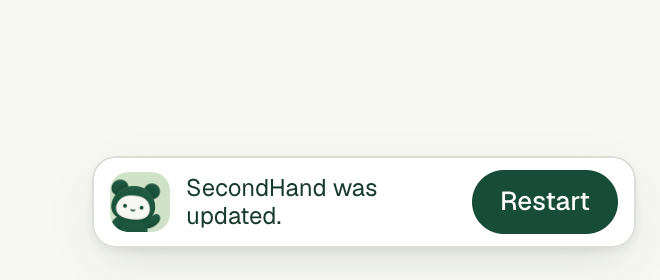
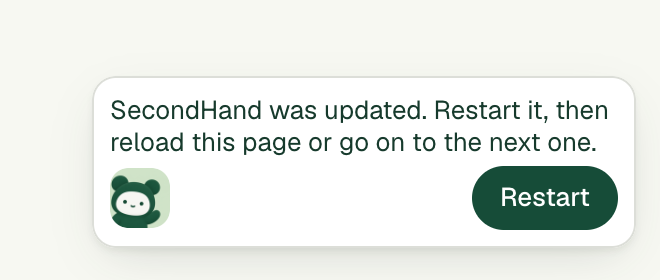
fix: let the update notice say what Restart does and what follows
The card's notice said only "SecondHand was updated." beside Restart, and
after the restart "Reload this page... That clears what you typed", with
no way out that kept the typing. The card now asks its outdated worker
once for a frame with room (in the oldest form of that request), and
with that room says "SecondHand was updated. Restart it, then reload this
page or go on to the next one." above the button, and afterwards
"SecondHand is back on the next page. To use it here, reload this page
(the round arrow by the address bar); that clears what you typed." In a
frame too small for the whole notice, the short form says what to do. All
six languages.

diff --git a/extension/strings.js b/extension/strings.js
@@ -44,6 +44,7 @@
     'widget.offerTitle': 'Show this page’s questions in English in SecondHand’s side panel',
     'widget.languageCheckFailed': 'SecondHand couldn’t check this page’s language.',
     'widget.outdated': 'SecondHand was updated.',
+    'widget.outdatedLong': 'SecondHand was updated. Restart it, then reload this page or go on to the next one.',
     'widget.restart': 'Restart',
     'widget.restartTitle': 'Restart SecondHand to finish its update. Then reload this page.',
 
@@ -52,8 +53,8 @@
     'panel.outdated': 'SecondHand was updated and needs to restart. This side panel will close. To use SecondHand again, reload the page with your form or go on to its next page.',
     'panel.updated': 'SecondHand was updated to match the app on this computer.',
     // A widget left on a page when SecondHand reloaded. It shows the short line when its frame can't hold the long one.
-    'panel.reloadPage': 'Reload this page to use SecondHand. That clears what you typed here.',
-    'panel.reloadPageShort': 'Reload this page to use SecondHand.',
+    'panel.reloadPage': 'SecondHand is back on the next page. To use it here, reload this page (the round arrow by the address bar); that clears what you typed.',
+    'panel.reloadPageShort': 'Reload this page to use SecondHand, or go on to the next page.',
     'panel.restart': 'Restart SecondHand',
     'panel.updateFailed': 'SecondHand couldn’t update its extension files. In the SecondHand app, open Chrome extension and click Refresh extension files. Then open chrome://extensions and click the reload arrow on SecondHand.',
     'panel.updateElsewhere': 'Chrome is running a copy of SecondHand that the app doesn’t update. In the SecondHand app, open Chrome extension and click Copy folder path. Then, at chrome://extensions, remove this copy, choose Load unpacked, and pick that folder.',
@@ -388,13 +389,14 @@
     'widget.offerTitle': 'Mostrar las preguntas de esta página en español en el panel lateral de SecondHand',
     'widget.languageCheckFailed': 'SecondHand no pudo comprobar el idioma de esta página.',
     'widget.outdated': 'SecondHand se actualizó.',
+    'widget.outdatedLong': 'SecondHand se actualizó. Reinícielo y luego recargue esta página o pase a la siguiente.',
     'widget.restart': 'Reiniciar',
     'widget.restartTitle': 'Reinicie SecondHand para terminar su actualización. Luego recargue esta página.',
 
     'panel.outdated': 'SecondHand se actualizó y necesita reiniciarse. Este panel lateral se cerrará. Para volver a usar SecondHand, recargue la página de su formulario o pase a la página siguiente.',
     'panel.updated': 'SecondHand se actualizó para coincidir con la aplicación de esta computadora.',
-    'panel.reloadPage': 'Recargue esta página para usar SecondHand. Eso borra lo que escribió aquí.',
-    'panel.reloadPageShort': 'Recargue esta página para usar SecondHand.',
+    'panel.reloadPage': 'SecondHand vuelve en la página siguiente. Para usarlo aquí, recargue esta página (la flecha redonda junto a la barra de direcciones); eso borra lo que escribió.',
+    'panel.reloadPageShort': 'Recargue esta página para usar SecondHand, o pase a la página siguiente.',
     'panel.restart': 'Reiniciar SecondHand',
     'panel.updateFailed': 'SecondHand no pudo actualizar los archivos de su extensión. En la aplicación SecondHand, abra “Chrome extension” y haga clic en “Refresh extension files”. Luego abra chrome://extensions y haga clic en la flecha de recargar de SecondHand.',
     'panel.updateElsewhere': 'Chrome está usando una copia de SecondHand que la aplicación no actualiza. En la aplicación SecondHand, abra “Chrome extension” y haga clic en “Copy folder path”. Luego, en chrome://extensions, quite esta copia, elija “Cargar descomprimida” y seleccione esa carpeta.',
@@ -726,13 +728,14 @@
     'widget.offerTitle': 'Hiển thị các câu hỏi của trang này bằng tiếng Việt trong bảng bên của SecondHand',
     'widget.languageCheckFailed': 'SecondHand không kiểm tra được ngôn ngữ của trang này.',
     'widget.outdated': 'SecondHand đã được cập nhật.',
+    'widget.outdatedLong': 'SecondHand đã được cập nhật. Hãy khởi động lại, rồi tải lại trang này hoặc sang trang kế tiếp.',
     'widget.restart': 'Khởi động lại',
     'widget.restartTitle': 'Khởi động lại SecondHand để hoàn tất cập nhật. Sau đó hãy tải lại trang này.',
 
     'panel.outdated': 'SecondHand đã được cập nhật và cần khởi động lại. Bảng bên này sẽ đóng. Để dùng lại SecondHand, hãy tải lại trang có biểu mẫu của bạn hoặc chuyển sang trang kế tiếp.',
     'panel.updated': 'SecondHand đã được cập nhật cho khớp với ứng dụng trên máy này.',
-    'panel.reloadPage': 'Hãy tải lại trang này để dùng SecondHand. Việc đó sẽ xóa những gì bạn đã nhập ở đây.',
-    'panel.reloadPageShort': 'Hãy tải lại trang này để dùng SecondHand.',
+    'panel.reloadPage': 'SecondHand hoạt động lại ở trang kế tiếp. Để dùng ở trang này, hãy tải lại trang (mũi tên tròn cạnh thanh địa chỉ); việc đó xóa những gì bạn đã nhập.',
+    'panel.reloadPageShort': 'Hãy tải lại trang này để dùng SecondHand, hoặc sang trang kế tiếp.',
     'panel.restart': 'Khởi động lại SecondHand',
     'panel.updateFailed': 'SecondHand không thể cập nhật các tệp tiện ích của mình. Trong ứng dụng SecondHand, hãy mở “Chrome extension” và bấm “Refresh extension files”. Sau đó mở chrome://extensions và bấm mũi tên tải lại trên SecondHand.',
     'panel.updateElsewhere': 'Chrome đang chạy một bản SecondHand mà ứng dụng không cập nhật. Trong ứng dụng SecondHand, hãy mở “Chrome extension” và bấm “Copy folder path”. Sau đó, tại chrome://extensions, hãy xóa bản này, chọn “Tải tiện ích đã giải nén” rồi chọn thư mục đó.',
@@ -1065,13 +1068,14 @@
     'widget.offerTitle': '在 SecondHand 侧边栏中用中文显示此页面的问题',
     'widget.languageCheckFailed': 'SecondHand 无法检查此页面的语言。',
     'widget.outdated': 'SecondHand 已更新。',
+    'widget.outdatedLong': 'SecondHand 已更新。请重新启动它，然后重新加载此页面或进入下一页。',
     'widget.restart': '重新启动',
     'widget.restartTitle': '重新启动 SecondHand 以完成更新，然后重新加载此页面。',
 
     'panel.outdated': 'SecondHand 已更新，需要重新启动。此侧边栏将会关闭。要继续使用 SecondHand，请重新加载表格所在的页面，或进入它的下一页。',
     'panel.updated': 'SecondHand 已更新，与本机上的应用保持一致。',
-    'panel.reloadPage': '请重新加载此页面以使用 SecondHand。这会清除您在此页面输入的内容。',
-    'panel.reloadPageShort': '请重新加载此页面以使用 SecondHand。',
+    'panel.reloadPage': 'SecondHand 会在下一页恢复。要在此页使用，请重新加载此页面（地址栏旁的圆形箭头）；这会清除您输入的内容。',
+    'panel.reloadPageShort': '请重新加载此页面以使用 SecondHand，或进入下一页。',
     'panel.restart': '重新启动 SecondHand',
     'panel.updateFailed': 'SecondHand 无法更新其扩展程序文件。请在 SecondHand 应用中打开“Chrome extension”，点击“Refresh extension files”。然后打开 chrome://extensions，点击 SecondHand 上的重新加载箭头。',
     'panel.updateElsewhere': 'Chrome 正在运行一份应用不会更新的 SecondHand 副本。请在 SecondHand 应用中打开“Chrome extension”，点击“Copy folder path”。然后在 chrome://extensions 中移除这份副本，选择“加载已解压的扩展程序”，再选择该文件夹。',
@@ -1404,13 +1408,14 @@
     'widget.offerTitle': 'Afficher les questions de cette page en français dans le panneau latéral de SecondHand',
     'widget.languageCheckFailed': 'SecondHand n’a pas pu vérifier la langue de cette page.',
     'widget.outdated': 'SecondHand a été mis à jour.',
+    'widget.outdatedLong': 'SecondHand a été mis à jour. Redémarrez-le, puis rechargez cette page ou passez à la suivante.',
     'widget.restart': 'Redémarrer',
     'widget.restartTitle': 'Redémarrez SecondHand pour terminer sa mise à jour. Rechargez ensuite cette page.',
 
     'panel.outdated': 'SecondHand a été mis à jour et doit redémarrer. Ce panneau latéral va se fermer. Pour utiliser de nouveau SecondHand, rechargez la page de votre formulaire ou passez à sa page suivante.',
     'panel.updated': 'SecondHand a été mis à jour pour correspondre à l’application de cet ordinateur.',
-    'panel.reloadPage': 'Rechargez cette page pour utiliser SecondHand. Cela efface ce que vous avez saisi ici.',
-    'panel.reloadPageShort': 'Rechargez cette page pour utiliser SecondHand.',
+    'panel.reloadPage': 'SecondHand revient à la page suivante. Pour l’utiliser ici, rechargez cette page (la flèche ronde près de la barre d’adresse) ; cela efface ce que vous avez saisi.',
+    'panel.reloadPageShort': 'Rechargez cette page pour utiliser SecondHand, ou passez à la page suivante.',
     'panel.restart': 'Redémarrer SecondHand',
     'panel.updateFailed': 'SecondHand n’a pas pu mettre à jour les fichiers de son extension. Dans l’application SecondHand, ouvrez « Chrome extension » et cliquez sur « Refresh extension files ». Ouvrez ensuite chrome://extensions et cliquez sur la flèche de rechargement de SecondHand.',
     'panel.updateElsewhere': 'Chrome utilise une copie de SecondHand que l’application ne met pas à jour. Dans l’application SecondHand, ouvrez « Chrome extension » et cliquez sur « Copy folder path ». Ensuite, dans chrome://extensions, supprimez cette copie, choisissez « Charger l’extension non empaquetée » et sélectionnez ce dossier.',
@@ -1743,13 +1748,14 @@
     'widget.offerTitle': 'عرض أسئلة هذه الصفحة بالعربية في اللوحة الجانبية لـ SecondHand',
     'widget.languageCheckFailed': 'لم يتمكن SecondHand من معرفة لغة هذه الصفحة.',
     'widget.outdated': 'تم تحديث SecondHand.',
+    'widget.outdatedLong': 'تم تحديث SecondHand. أعد تشغيله، ثم أعد تحميل هذه الصفحة أو انتقل إلى التالية.',
     'widget.restart': 'إعادة التشغيل',
     'widget.restartTitle': 'أعد تشغيل SecondHand لإكمال تحديثه، ثم أعد تحميل هذه الصفحة.',
 
     'panel.outdated': 'تم تحديث SecondHand ويحتاج إلى إعادة التشغيل. ستُغلق هذه اللوحة الجانبية. لاستخدام SecondHand من جديد، أعد تحميل صفحة النموذج أو انتقل إلى صفحتها التالية.',
     'panel.updated': 'تم تحديث SecondHand ليطابق التطبيق على هذا الكمبيوتر.',
-    'panel.reloadPage': 'أعد تحميل هذه الصفحة لاستخدام SecondHand. سيمسح ذلك ما كتبته هنا.',
-    'panel.reloadPageShort': 'أعد تحميل هذه الصفحة لاستخدام SecondHand.',
+    'panel.reloadPage': 'يعود SecondHand في الصفحة التالية. لاستخدامه هنا، أعد تحميل هذه الصفحة (السهم الدائري بجانب شريط العناوين)؛ يمسح ذلك ما كتبته.',
+    'panel.reloadPageShort': 'أعد تحميل هذه الصفحة لاستخدام SecondHand، أو انتقل إلى الصفحة التالية.',
     'panel.restart': 'إعادة تشغيل SecondHand',
     'panel.updateFailed': 'تعذّر على SecondHand تحديث ملفات إضافته. في تطبيق SecondHand، افتح “Chrome extension” وانقر على “Refresh extension files”. ثم افتح chrome://extensions وانقر على سهم إعادة التحميل في SecondHand.',
     'panel.updateElsewhere': 'يشغّل Chrome نسخة من SecondHand لا يحدّثها التطبيق. في تطبيق SecondHand، افتح “Chrome extension” وانقر على “Copy folder path”. ثم في chrome://extensions، أزل هذه النسخة واختر “تحميل الإضافة غير المضغوطة” وحدد ذلك المجلد.',

diff --git a/extension/panel.js b/extension/panel.js
@@ -122,8 +122,12 @@
     // The reader hid the card: only the logo shows, until they click it or the page changes.
     let collapsed = false;
     // Why the widget is outdated: its worker is older than this page (panel.outdated), which Restart
-    // fixes, or SecondHand reloaded and left this frame behind (panel.reloadPage).
+    // fixes, or SecondHand reloaded and left this frame behind (panel.reloadPage). An outdated worker
+    // is asked once for a frame with room for a line, in the oldest form of that request.
     let outdatedKey = 'panel.outdated';
+    let roomAsked = false;
+    // What an outdated widget says: the whole of it, or the short form when its frame can't hold the whole.
+    const OUTDATED_LINES = { 'panel.outdated': ['widget.outdatedLong', 'widget.outdated'], 'panel.reloadPage': ['panel.reloadPage', 'panel.reloadPageShort'] };
     let ai = { note: null, reason: '' };
     let cursor = 0;
     let pollTimer;
@@ -139,7 +143,7 @@
     const trouble = error => { if (error.outdated) { outdated = true; outdatedKey = error.messageKey; } return problem(error); };
 
     function statusText() {
-      if (outdated) return t(outdatedKey === 'panel.reloadPage' ? 'panel.reloadPage' : 'widget.outdated');
+      if (outdated) return t((OUTDATED_LINES[outdatedKey] || OUTDATED_LINES['panel.outdated'])[0]);
       if (working) return t('widget.working');
       if (note) return words(note, 120);
       if (!result) return !site ? t(startedBefore() ? 'widget.iowaReadyAgain' : 'widget.iowaReady') : languageTrouble ? t('widget.languageCheckFailed') : t('widget.siteReady', { host: hostOf(site.origin) });
@@ -155,6 +159,7 @@
       const pill = card && collapsed && !outdated;
       $('widget').hidden = !card || pill;
       $('widget').classList.toggle('outdated', outdated);
+      $('widget').classList.toggle('restartable', outdated && outdatedKey !== 'panel.reloadPage');
       $('pill').hidden = card && !pill;
       $('pill').title = t(pill ? 'widget.showTitle' : 'widget.pillTitle');
       $('pill').setAttribute('aria-label', t(pill ? 'widget.showTitle' : 'widget.pillTitle'));
@@ -184,9 +189,13 @@
       $('widget-text').classList.toggle('visually-hidden', !message);
       // The translated view is offered until Autofill has something to report.
       $('translate-offer').hidden = outdated || Boolean(note) || working || Boolean(result) || !known || !pageLanguage || pageLanguage === language;
-      // A frame left behind can't grow: when it can't hold the whole line, the short one says what to do.
-      // Letters overhang their line by a pixel or so; a line cut off is 14px more.
-      if (outdated && outdatedKey === 'panel.reloadPage' && $('widget-text').scrollHeight - $('widget-text').clientHeight > 7) $('widget-text').textContent = t('panel.reloadPageShort');
+      // When the frame can't hold the whole notice, the short form says what to do. Letters overhang
+      // their line by a pixel or so; a line cut off is 14px more.
+      if (outdated && $('widget-text').scrollHeight - $('widget-text').clientHeight > 7) $('widget-text').textContent = t((OUTDATED_LINES[outdatedKey] || OUTDATED_LINES['panel.outdated'])[1]);
+      if (outdated && outdatedKey !== 'panel.reloadPage' && !roomAsked) {
+        roomAsked = true;
+        send({ type: 'ui:widgetSize', line: true }).catch(() => {});
+      }
       // The widget is as wide and as tall as what it shows, up to 272px by 150px (see panel.css). An outdated
       // worker is not asked for anything more; its notice fills the frame the widget already has.
       const room = message || !$('translate-offer').hidden;
@@ -326,8 +335,10 @@
     document.addEventListener('visibilitychange', () => { if (!document.hidden) poll(); });
     window.addEventListener('pagehide', () => clearTimeout(pollTimer), { once: true });
     render();
-    // The widget measures its own width for its frame: measure again whenever one of its fonts has loaded.
+    // The widget measures its own width for its frame: measure again whenever one of its fonts has loaded,
+    // and fit the notice again when the frame itself changes.
     document.fonts?.addEventListener('loadingdone', render);
+    window.addEventListener('resize', render);
     checkBuild().catch(error => { note = trouble(error); render(); }).then(poll);
   }
 

diff --git a/extension/panel.css b/extension/panel.css
@@ -28,10 +28,13 @@ body.launcher-surface{background:none}#launcher{width:100%;height:100%;display:f
 #widget-text{line-height:16px;min-width:0;overflow:hidden;display:-webkit-box;-webkit-box-orient:vertical;-webkit-line-clamp:5}
 /* A line to read widens the widget to its 272px. Five lines of it and the translation offer make the widget 150px tall, the most its frame allows. */
 #widget-text:not(.visually-hidden){width:max-content;max-width:254px}
-/* An outdated worker can't be asked for another frame, so one row fills the frame the widget already has:
-   the logo, up to three lines of what happened, and a button when one helps. */
+/* An outdated worker may not give the widget another frame (one is asked for), so the notice fits the frame the
+   widget already has: a row of the logo, up to three lines of 12px, and a button when one helps. */
 #widget.outdated{width:100%;height:100%;flex-direction:row;align-items:center;gap:8px;padding:0 8px}.widget.outdated .widget-row{display:contents}.widget.outdated .widget-logo{order:-1;margin:0}
 .widget.outdated #widget-text{flex:1;width:auto;max-width:none;font-size:12px;line-height:14px;-webkit-line-clamp:3}
+/* A taller frame gets the panel's text size and more lines, with the button under the text. */
+@media(min-height:80px){.widget.outdated #widget-text{font-size:13px;line-height:16px;-webkit-line-clamp:4}
+  #widget.outdated.restartable{flex-direction:column;align-items:stretch;justify-content:center;gap:4px;padding:6px 8px}.widget.outdated.restartable .widget-row{display:flex}.widget.outdated.restartable .widget-logo{order:0;margin-inline-end:auto}.widget.outdated.restartable #widget-text{flex:none;-webkit-line-clamp:2}}
 /* Hiding the card leaves the logo in the page's corner, where a click brings the card back. */
 .widget-hide{display:flex;flex:none;align-items:center;justify-content:center;width:24px;height:24px;margin-inline:-2px;padding:0;border:0;border-radius:50%;background:none;color:var(--muted-foreground)}.widget-hide:hover{background:var(--muted);color:var(--foreground)}.widget-hide svg{width:12px;height:12px;fill:none;stroke:currentColor;stroke-width:2.5;stroke-linecap:round}
 /* The logo alone fills its round frame, so the ring a keyboard gives it is drawn inside the circle. */
